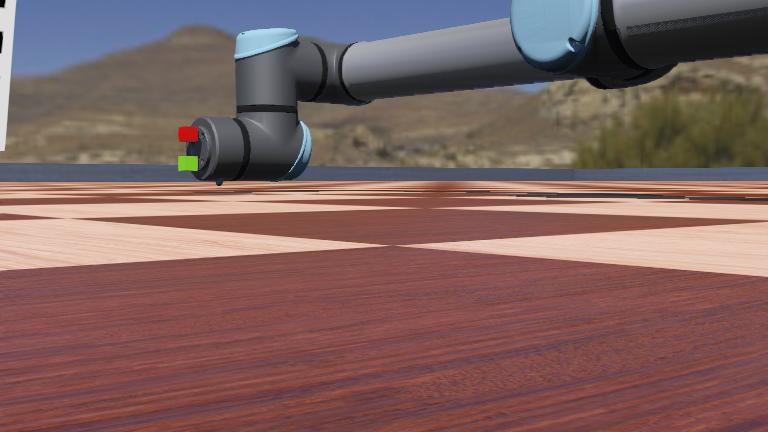
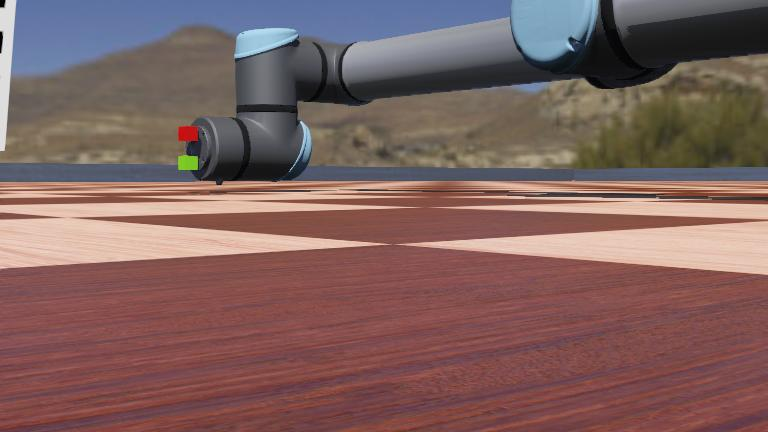
minor: updated urdf with correct gyro pose; improved joints movement for dataset lardemua/atom#1024

diff --git a/rihibot_bringup/src/robotMover.py b/rihibot_bringup/src/robotMover.py
@@ -2,6 +2,7 @@
 
 import rospy
 from webots_ros.srv import set_float
+import math
 
 def getJointsServices(joints: list) -> dict:
     service_dict = {}
@@ -32,14 +33,55 @@ def main():
 
     # set velocities of all joints to 0.1
     for joint in joints:
-        service_dict[f"{joint}_set_velocity"](value=0.1)
+        service_dict[f"{joint}_set_velocity"](value=0.3)
 
     rospy.sleep(duration=5)
 
-    service_dict["shoulder_lift_joint_set_position"](value=-0.5)
-    service_dict["shoulder_pan_joint_set_position"](value=-1.57)
+    service_dict["shoulder_pan_joint_set_position"](value=-0.13316862192716733)
+    service_dict["shoulder_lift_joint_set_position"](value=-1.4320426512613473)
+    service_dict["elbow_joint_set_position"](value=2.0900317792632093)
+    service_dict["wrist_1_joint_set_position"](value=-3.7271506176338907)
+    service_dict["wrist_2_joint_set_position"](value=-1.4063863112570307)
+    service_dict["wrist_3_joint_set_position"](value=math.pi)
 
-    rospy.sleep(duration=10)
+    rospy.sleep(duration=50)
+
+    service_dict["shoulder_pan_joint_set_position"](value=math.pi)
+
+    rospy.sleep(duration=20)
+
+    service_dict["shoulder_pan_joint_set_position"](value=-0.13316862192716733)
+
+    rospy.sleep(duration=20)
+
+    service_dict["shoulder_pan_joint_set_position"](value=0.027401669256310976)
+    service_dict["shoulder_lift_joint_set_position"](value=-0.8206538142877338)
+    service_dict["elbow_joint_set_position"](value=1.140049067402696)
+    service_dict["wrist_1_joint_set_position"](value=-3.264987431705792)
+    service_dict["wrist_2_joint_set_position"](value=-1.8495254083383912)
+    service_dict["wrist_3_joint_set_position"](value=math.pi)
+
+    rospy.sleep(duration=50)
+
+    service_dict["shoulder_pan_joint_set_position"](value=-0.3410373358396919)
+    service_dict["shoulder_lift_joint_set_position"](value=-0.7578219612159379)
+    service_dict["elbow_joint_set_position"](value=1.124341104134747)
+    service_dict["wrist_1_joint_set_position"](value=-3.470587217590724)
+    service_dict["wrist_2_joint_set_position"](value=-1.1116002005951884)
+    service_dict["wrist_3_joint_set_position"](value=math.pi)
+
+    rospy.sleep(duration=50)
+
+    service_dict["shoulder_pan_joint_set_position"](value=0.03490658503988659)
+    service_dict["shoulder_lift_joint_set_position"](value=0.14573499254152653)
+    service_dict["elbow_joint_set_position"](value=-0.8190830179609389)
+    service_dict["wrist_1_joint_set_position"](value=-2.4822072621863356)
+    service_dict["wrist_2_joint_set_position"](value=-1.820902008605684)
+    service_dict["wrist_3_joint_set_position"](value=math.pi)
+
+
+
+
 
 
 if __name__ == "__main__":

diff --git a/rihibot_bringup/src/imu_data_handler.py b/rihibot_bringup/src/imu_data_handler.py
@@ -38,12 +38,12 @@ class ImuDataMerger:
             name="/accelerometer/values", data_class=Imu, callback=self.accel_recv
         )
 
-        self.imu_pub = rospy.Publisher(name="imu", data_class=Imu, queue_size=10)
+        self.imu_pub = rospy.Publisher(name="imu", data_class=Imu, queue_size=1)
 
         self.gyro_msg = None
         self.accel_msg = None
 
-        self.rate = rospy.Rate(hz=200)
+        self.rate = rospy.Rate(hz=50)
         self.run()
 
 
